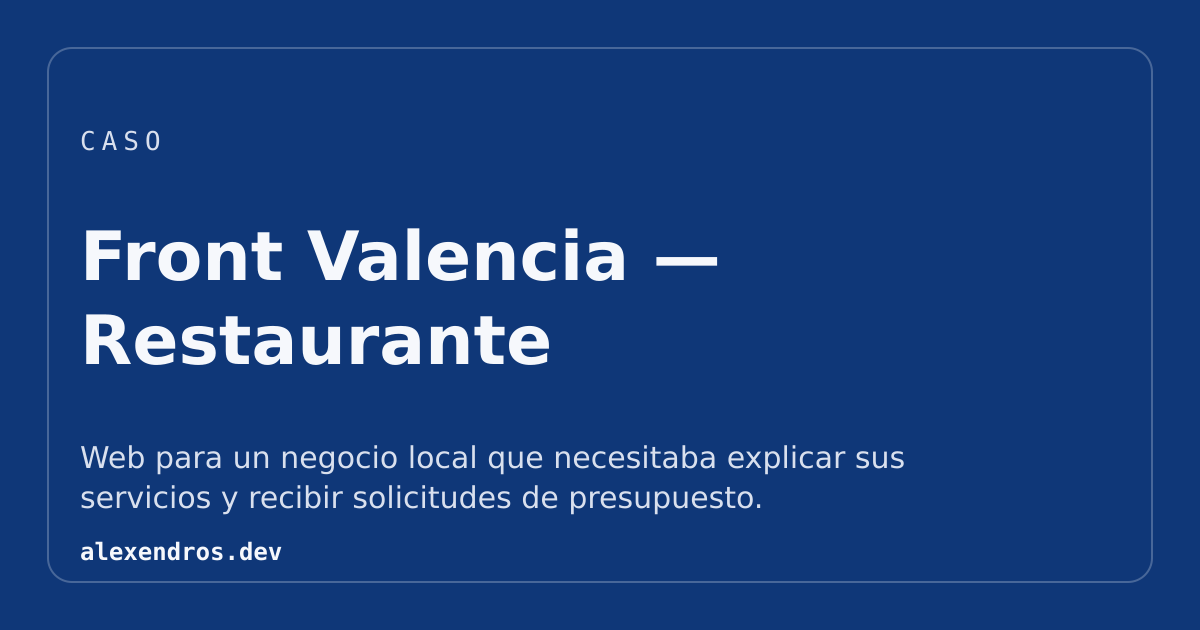
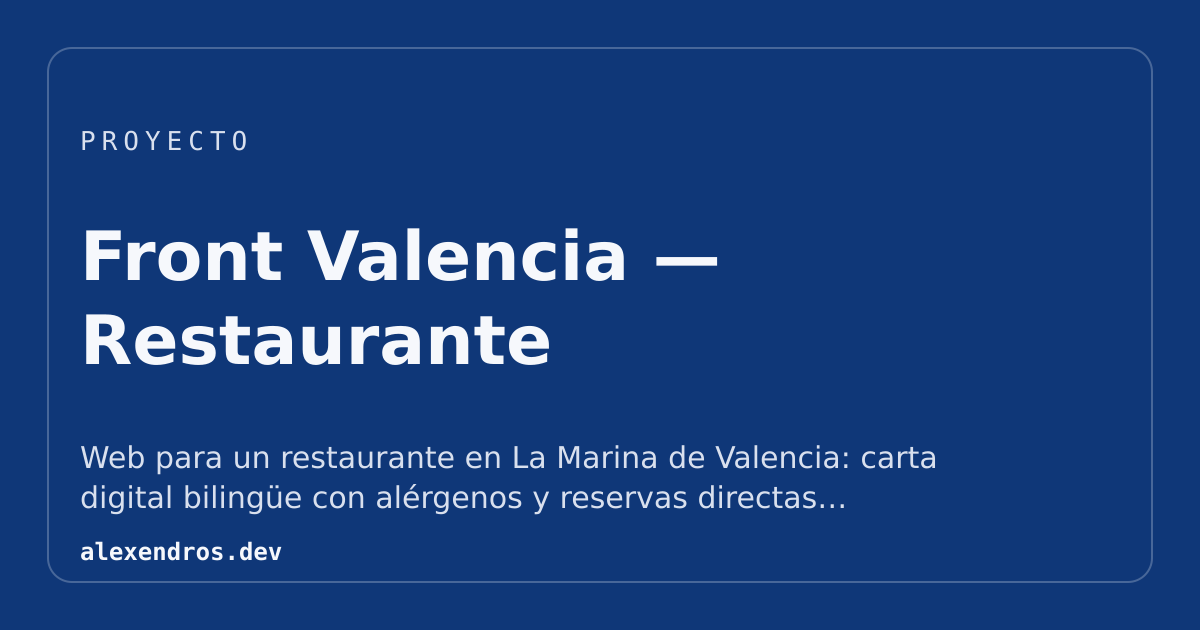
content(proyectos): Front Valencia real, Zedazo open source y naming "Proyectos"
- front-valencia: URL y repo reales, stack del entregable, resultados verificables y fecha real (2025-07-13)

- vcf-cribador pasa a Zedazo (código abierto, Soluciones-Alexendros/zedazo)

- portadas y OG regeneradas; naming "Proyectos" en nav, páginas, README e IDENTITY

- elimina el figcaption con el slug y hace opcional la sección de Resultados

Changed region(s): [[0.0617, 0.6937, 0.8017, 0.8143], [0.0617, 0.2111, 0.2158, 0.2413]]

diff --git a/src/content/projects.ts b/src/content/projects.ts
@@ -2,7 +2,7 @@ import type { ImageMetadata } from 'astro';
 import { z } from 'zod';
 import coverFront from '../assets/projects/front-valencia.webp';
 import coverNasve from '../assets/projects/graficas-nasve.webp';
-import coverVcf from '../assets/projects/vcf-cribador.webp';
+import coverZedazo from '../assets/projects/zedazo.webp';
 import coverMe from '../assets/projects/alexendros-me.webp';
 
 export const projectSchema = z.object({
@@ -17,7 +17,7 @@ export const projectSchema = z.object({
   responsibilities: z.array(z.string()).min(1),
   technologies: z.array(z.string()).min(1),
   highlights: z.array(z.string()).min(1),
-  results: z.array(z.string()).min(1),
+  results: z.array(z.string()).min(1).optional(),
   links: z.object({
     prod: z.string().url().optional(),
     github: z.string().url().optional()
@@ -42,35 +42,43 @@ export const projects: Project[] = [
     slug: 'front-valencia',
     title: 'Front Valencia — Restaurante',
     short:
-      'Web para un negocio local que necesitaba explicar sus servicios y recibir solicitudes de presupuesto.',
+      'Web para un restaurante en La Marina de Valencia: carta digital bilingüe con alérgenos y reservas directas, editable por el equipo sin tocar código.',
     summary:
-      'Renovamos la web de un restaurante para que los clientes entiendan la oferta, consulten el menú y pidan reserva con menos fricción.',
+      'Diseñamos y publicamos la web del restaurante: carta bilingüe con alérgenos y etiquetas dietéticas, espacios y eventos, y reservas con CoverManager, todo editable desde un panel propio.',
     role: 'Diseño, desarrollo y publicación',
     context:
-      'La web anterior era lenta, difícil de actualizar y no facilitaba las reservas. Editar el menú llevaba demasiado tiempo.',
+      'El restaurante necesitaba una presencia clara en La Marina de Valencia y una carta que pudiera actualizar su propio equipo cuando cambiaran precios o platos.',
     challenge:
-      'Publicar una web clara sin interrumpir el negocio, conservar la visibilidad en buscadores y dejar al equipo un editor sencillo.',
+      'Publicar una web bilingüe (ES/EN) con carta, espacios y reservas, mantenerla rápida y dejar al equipo un editor sencillo para la carta y los eventos.',
     solution:
-      'Nueva web con menú actualizable, textos más claros y un flujo de reservas más directo. Entregamos guía de uso y comprobamos velocidad y usabilidad antes de publicar.',
+      'Web con carta digital bilingüe (alérgenos, etiquetas dietéticas y precios), páginas de espacios y eventos, y reservas integradas con CoverManager. El equipo edita todo desde un panel propio, sin tocar código.',
     responsibilities: [
-      'Definición de estructura y mensajes',
-      'Diseño y desarrollo completo',
-      'Editor para actualizar el menú',
-      'Revisión de usabilidad',
+      'Definición de estructura y contenidos',
+      'Diseño y desarrollo web',
+      'Carta digital bilingüe con alérgenos',
+      'Integración de reservas (CoverManager)',
+      'Panel de edición para el equipo',
       'Publicación y documentación'
     ],
     technologies: [
-      'Detalles técnicos: Astro + Payload CMS, TypeScript, Tailwind. Objetivo Lighthouse ≥90. Publicación en Vercel + VPS.'
+      'Astro + React',
+      'Tailwind CSS',
+      'Payload CMS 3 + PostgreSQL',
+      'pnpm + Turborepo',
+      'TypeScript estricto',
+      'Vercel (web) + Railway (CMS)'
     ],
     highlights: [
-      'Publicación sin cortar el servicio',
-      'Editor visual para el equipo',
-      'Usable con teclado',
-      'Velocidad medida antes de entregar'
+      'Carta bilingüe con alérgenos',
+      'Reservas integradas con CoverManager',
+      'El equipo edita sin tocar código',
+      'Web rápida y accesible'
     ],
-    results: ['Carga mucho más rápida', 'Más reservas desde la web', 'Menú editable en minutos'],
-    links: { prod: 'https://frontvalencia.com/' },
-    published: '2024-03-15',
+    links: {
+      prod: 'https://website-frontvalencia.vercel.app/',
+      github: 'https://github.com/Soluciones-Alexendros/website-frontvalencia'
+    },
+    published: '2025-07-13',
     featured: true,
     cover: coverFront,
     coverAlt:
@@ -99,7 +107,11 @@ export const projects: Project[] = [
       'Pruebas antes de publicar'
     ],
     technologies: [
-      'Detalles técnicos: Next.js, TypeScript, PostgreSQL, Prisma, Stripe (webhooks idempotentes), Zod.'
+      'Next.js',
+      'TypeScript',
+      'PostgreSQL + Prisma',
+      'Stripe (webhooks idempotentes)',
+      'Zod'
     ],
     highlights: [
       'Precios calculados al momento',
@@ -119,11 +131,12 @@ export const projects: Project[] = [
       'Tienda online de Gráficas Nasve: catálogo de productos con precios calculados al momento y pago online.'
   },
   {
-    slug: 'vcf-cribador',
-    title: 'VCF Cribador — Herramienta de contactos',
-    short: 'Herramienta interna para automatizar un proceso manual y reducir errores.',
+    slug: 'zedazo',
+    title: 'Zedazo — Herramienta de contactos',
+    short:
+      'Herramienta de código abierto para limpiar y unificar listados de contactos sin trabajo manual.',
     summary:
-      'Una utilidad para limpiar y unificar listados de contactos exportados desde distintas agendas, evitando trabajo repetitivo y fallos al migrar.',
+      'Una utilidad libre para limpiar y unificar listados de contactos exportados desde distintas agendas, evitando trabajo repetitivo y fallos al migrar.',
     role: 'Diseño y desarrollo de la herramienta',
     context:
       'Migrar contactos entre Google, iCloud y Outlook generaba duplicados, formatos rotos y mucho trabajo manual.',
@@ -138,7 +151,9 @@ export const projects: Project[] = [
       'Pruebas y documentación'
     ],
     technologies: [
-      'Detalles técnicos: CLI en Rust (clap, phonenumber, serde). Binario estático ~3MB. FOSS MIT.'
+      'CLI en Rust (clap, phonenumber, serde)',
+      'Binario estático ~3 MB',
+      'Open source bajo licencia MIT'
     ],
     highlights: [
       'Instalación sencilla',
@@ -147,12 +162,12 @@ export const projects: Project[] = [
       'Código abierto'
     ],
     results: ['Menos errores al migrar', 'Miles de contactos procesados', 'Uso recurrente'],
-    links: { github: 'https://github.com/Iniciativas-Alexendros/zedazo' },
+    links: { github: 'https://github.com/Soluciones-Alexendros/zedazo' },
     published: '2024-01-10',
     featured: false,
-    cover: coverVcf,
+    cover: coverZedazo,
     coverAlt:
-      'Interfaz de VCF Cribador, herramienta de código abierto para limpiar y unificar listados de contactos.'
+      'Interfaz de Zedazo, herramienta de código abierto para limpiar y unificar listados de contactos.'
   },
   {
     slug: 'alexendros-me',
@@ -175,9 +190,7 @@ export const projects: Project[] = [
       'Privacidad',
       'Publicación'
     ],
-    technologies: [
-      'Detalles técnicos: Next.js, TypeScript, Tailwind, MDX, Zod. Objetivo 98/100/100/100 Lighthouse móvil; 0 violaciones axe-core.'
-    ],
+    technologies: ['Next.js', 'TypeScript', 'Tailwind', 'MDX', 'Zod'],
     highlights: [
       'Lectura cómoda',
       'Buen contraste',

diff --git a/src/content/site.ts b/src/content/site.ts
@@ -8,7 +8,7 @@ export const site = {
   ogLocale: 'es_ES',
   nav: [
     { label: 'Cómo puedo ayudarte', href: '/servicios' },
-    { label: 'Casos', href: '/proyectos' },
+    { label: 'Proyectos', href: '/proyectos' },
     { label: 'Cómo trabajo', href: '/como-trabajo' },
     { label: 'Sobre mí', href: '/sobre-mi' }
   ],

diff --git a/docs/IDENTITY.md b/docs/IDENTITY.md
@@ -18,10 +18,10 @@ Quien eres: role Full Stack · Auditor · Consultor, summary conversion-focused,
 
 ## projects.ts — 4 proyectos (profundidad > cantidad, 70% recruiters prefiere)
 
-- front-valencia: Astro+Payload CMS i18n WCAG AA menu dinamico reservas. -65% LCP 0 axe +40% reservas 30min->3min
+- front-valencia: Astro+React+Tailwind, Payload CMS 3+PostgreSQL i18n ES/EN carta con alergenos reservas CoverManager panel propio. Web rapida y accesible
 - graficas-nasve: Next.js motor precios 200+ reglas validacion PDF Stripe Checkout B2B/B2C. 48h->5min +300% pedidos 0 errores -70% gestion PCI SAQ-A
-- vcf-cribador: CLI Rust 3MB limpiar VCF E.164 dedup VCF/CSV. 500+ dl/mes 50k migracion 0 CVEs <2s 10k
-- alexendros-me: Next.js lab 0 JS contenido AAA prosa privacidad real sin GA. 98/100/100/100 movil 0 axe <3min build 15+ ensayos
+- zedazo: CLI Rust 3MB limpiar VCF E.164 dedup VCF/CSV. Open source MIT
+- alexendros-me: Next.js lab contenido MDX privacidad real sin GA. Lectura comoda y accesible
 
 ## Componentes
 

diff --git a/README.md b/README.md
@@ -11,7 +11,7 @@ Sitio profesional de [alexendros.dev](https://alexendros.dev): webs que explican
 | [Consultoría tecnológica](https://alexendros.dev/servicios/consultoria-tecnologica/) | Decisiones técnicas sin humo: stack, alcance y siguientes pasos                            |
 | [Landing en 10 días](https://alexendros.dev/servicios/landing-10-dias/)              | Una página de oferta concreta, publicada en plazo corto                                    |
 
-Más detalle y precios orientativos en [Servicios](https://alexendros.dev/servicios/). Casos reales en [Proyectos](https://alexendros.dev/proyectos/).
+Más detalle y precios orientativos en [Servicios](https://alexendros.dev/servicios/). Proyectos reales en [Proyectos](https://alexendros.dev/proyectos/).
 
 ## Cómo empezamos
 
